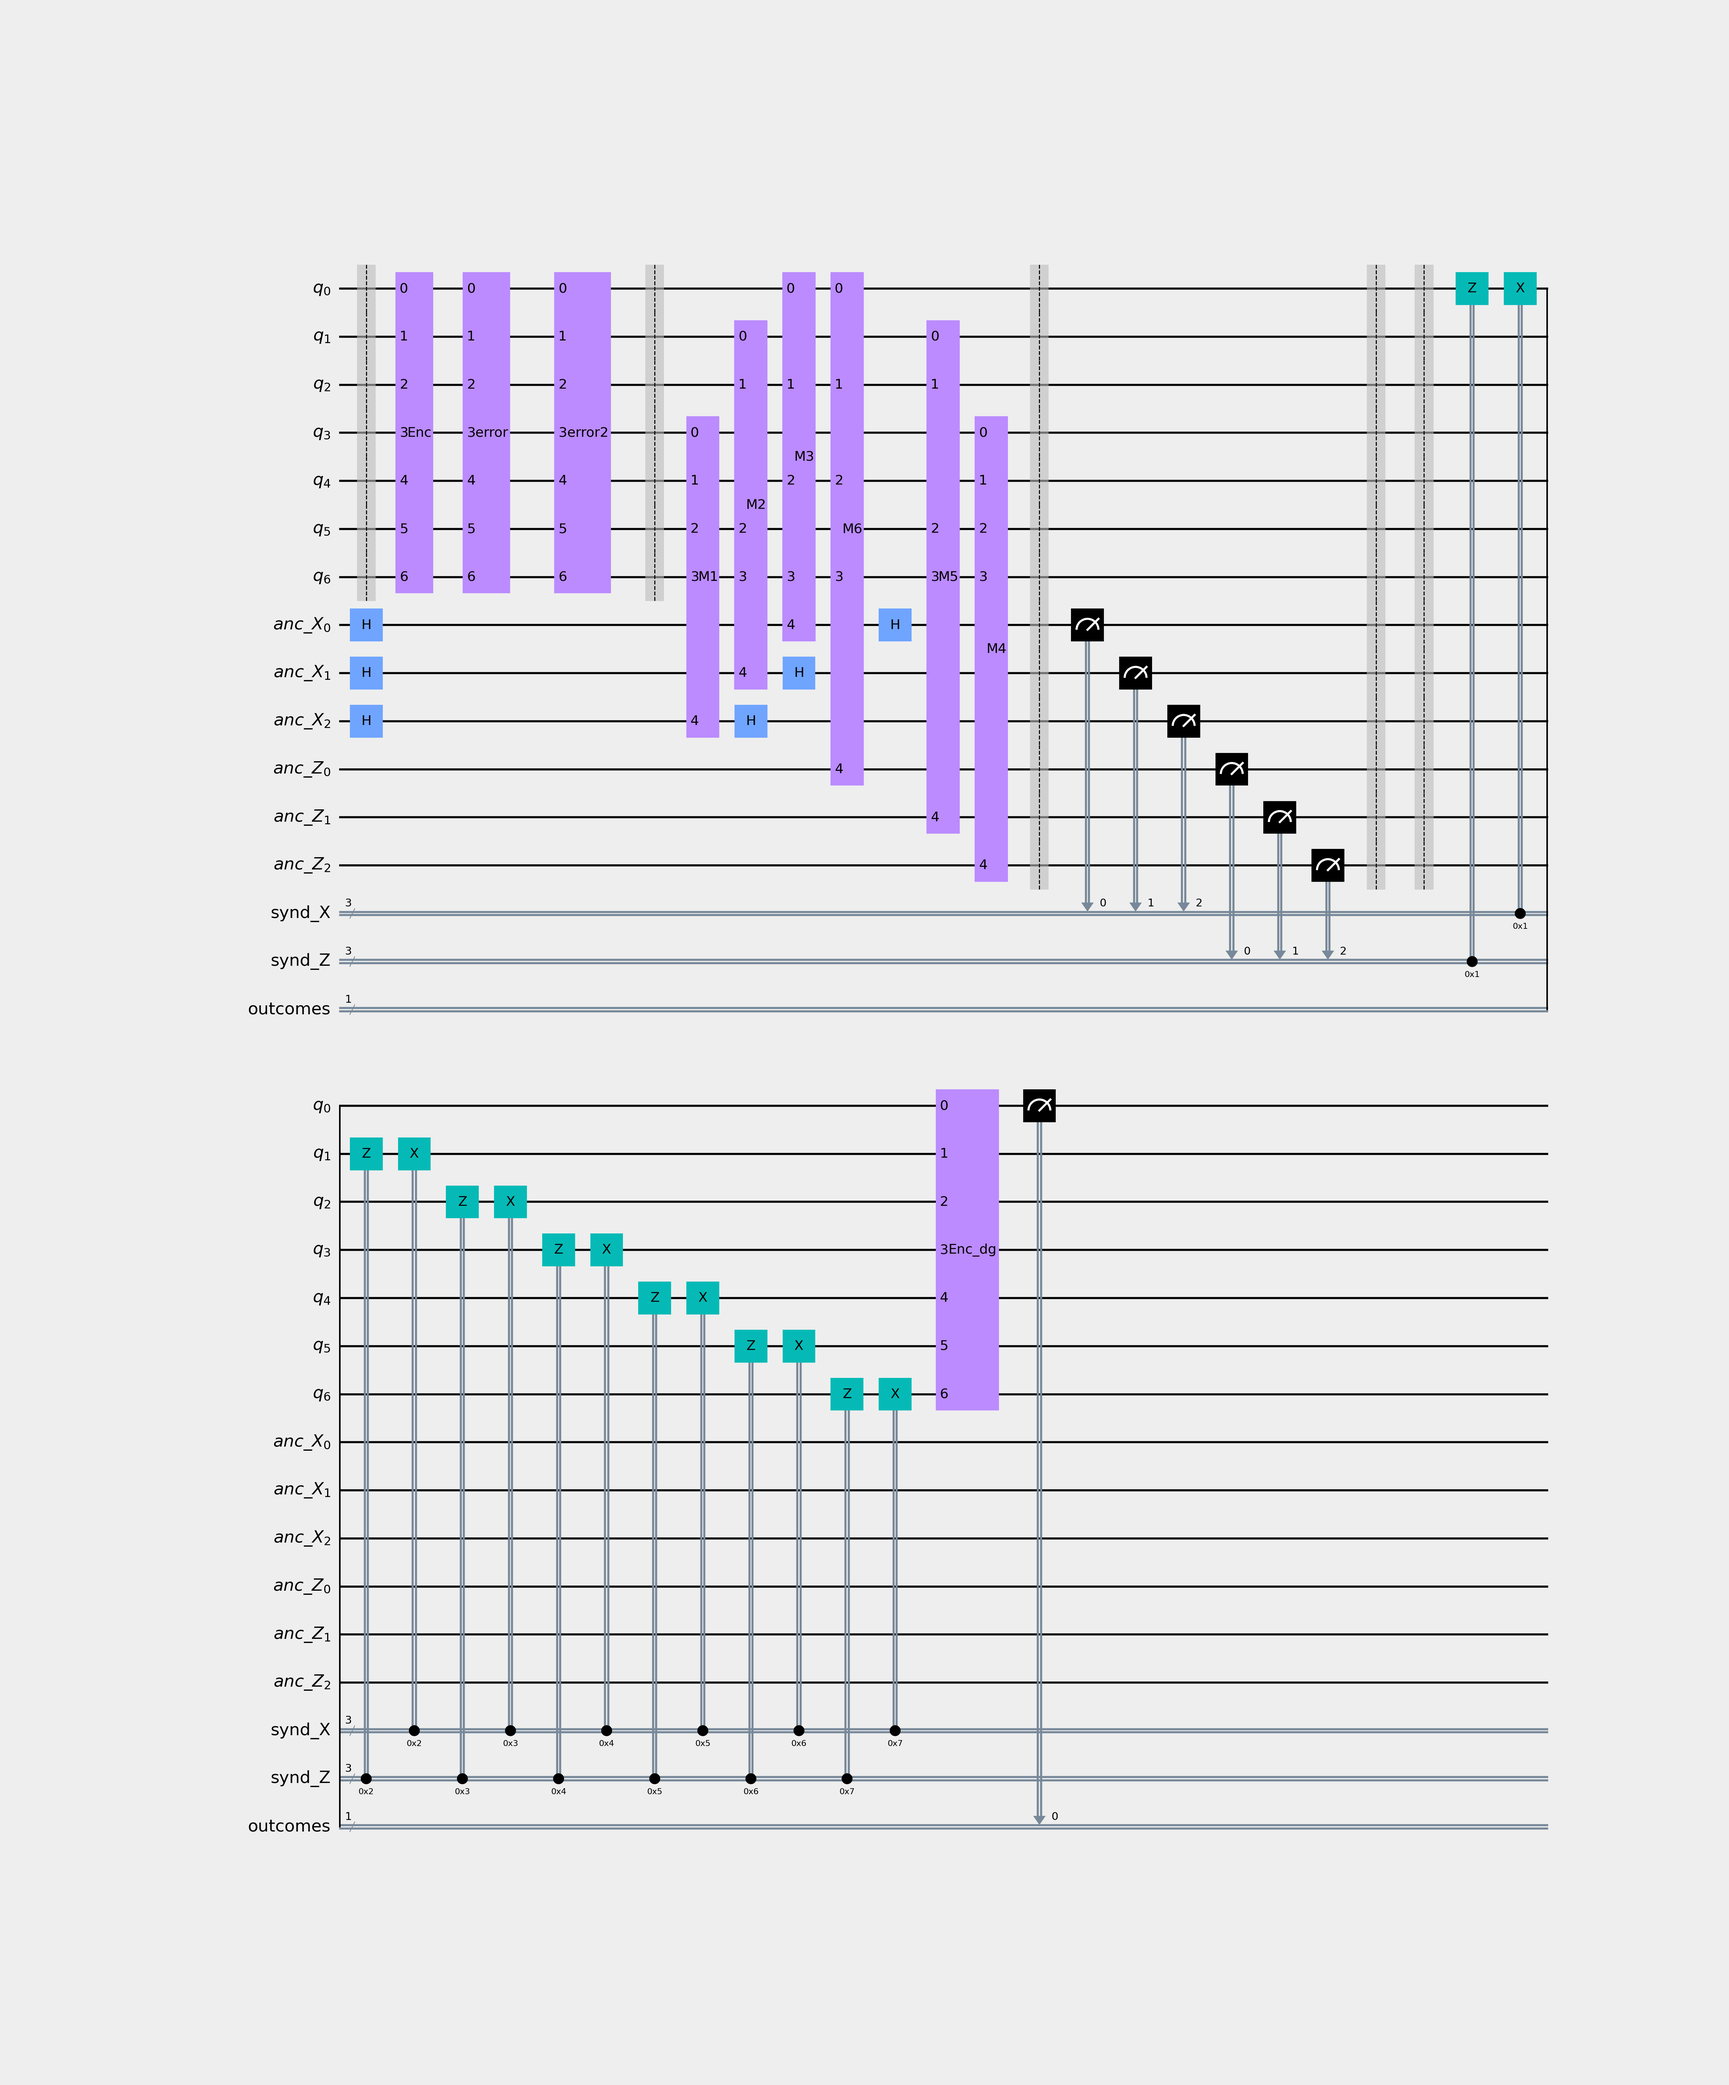
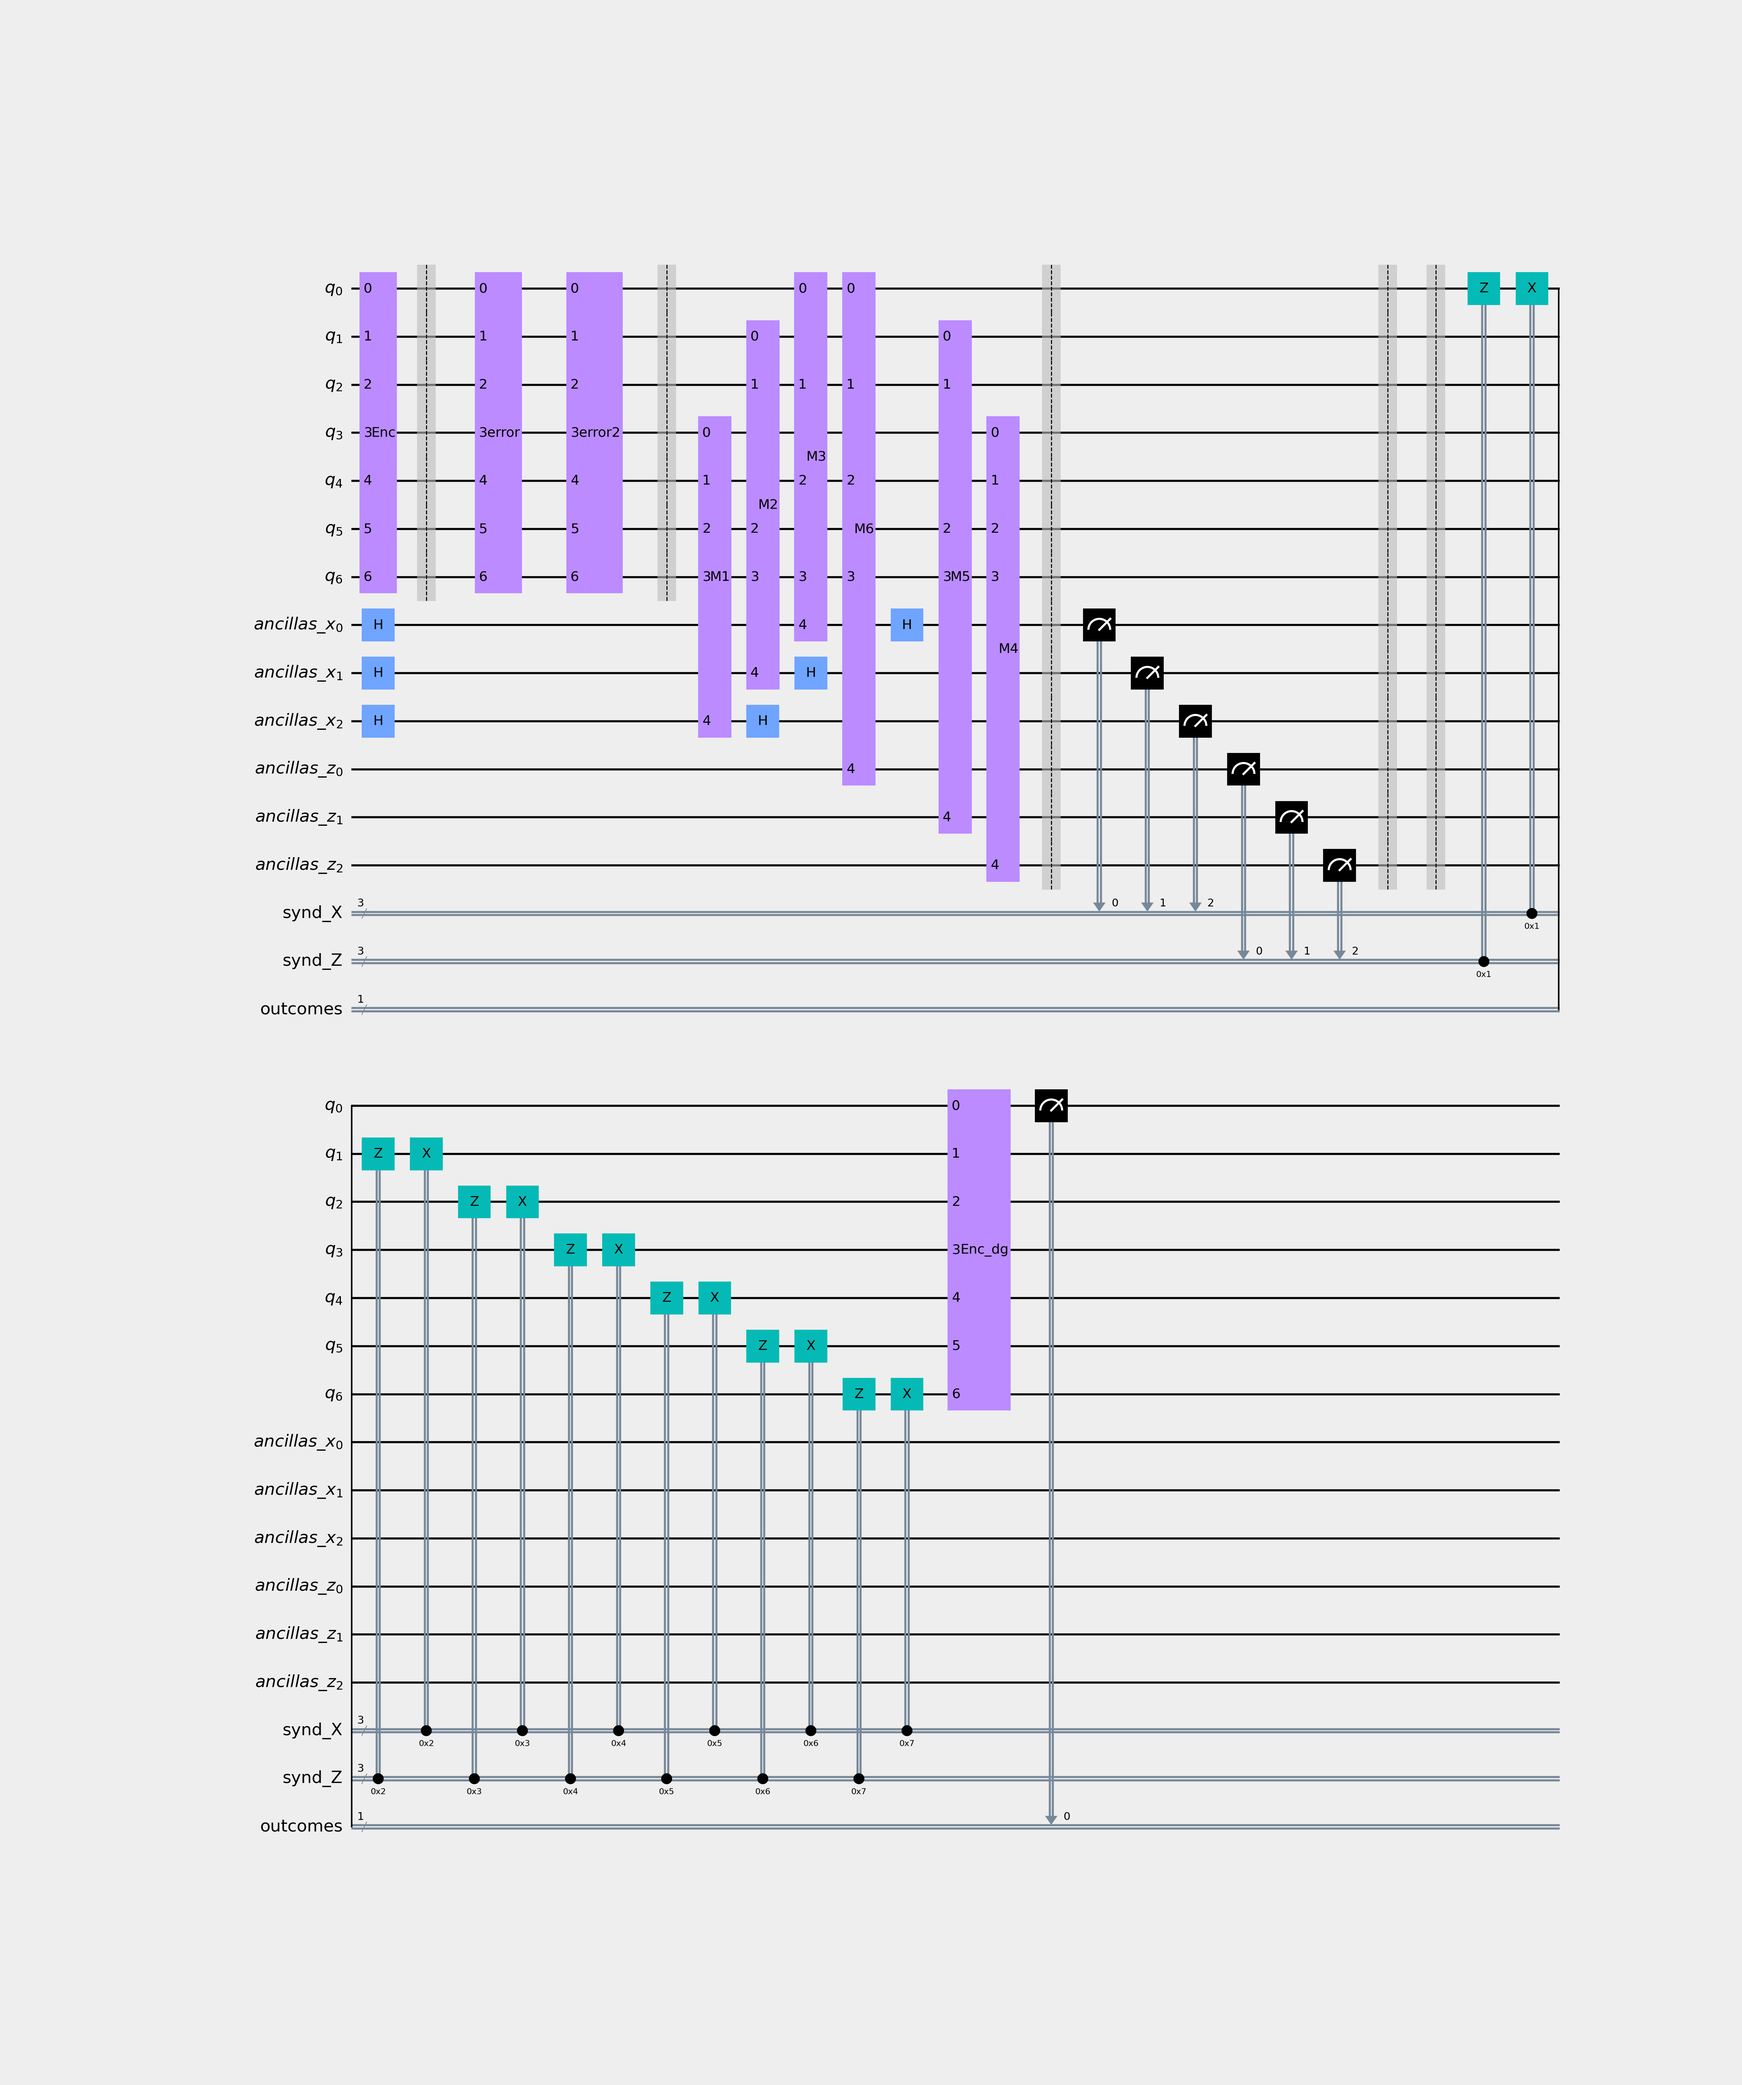
refactoring

Changed region(s): [[0.1555, 0.5296, 0.622, 0.8723], [0.1555, 0.1246, 0.7775, 0.4362], [0.1555, 0.405, 0.1866, 0.4673]]

diff --git a/Seven_qubit_code.py b/Seven_qubit_code.py
@@ -1,7 +1,3 @@
-""" notes:
-- remember to use barrier between gates to avoid optimization combining them to one gate
-"""
-
 from unicodedata import name
 from qiskit import *
 from qiskit import Aer, transpile
@@ -26,6 +22,7 @@ import qiskit.quantum_info as qi
 
 def main():
 
+    print(PRINT_MESSAGE)
 
     aer_sim = Aer.get_backend('aer_simulator')
     sv_sim = Aer.get_backend('statevector_simulator')
@@ -41,15 +38,13 @@ def main():
     ident3 = qi.Operator(np.identity(2 ** 7))
     quantum_error_1.unitary(ident3, all_qubits, label='error')
     quantum_error_2.unitary(ident3, all_qubits, label='error2')
-    #######
-    # Create the quantum circuit with the initial state
-    #######
-    quantum_circuit = QuantumCircuit(7)
-    initialize_qubit_to_state(quantum_circuit)
 
-    quantum_circuit.barrier()
+    quantum_circuit = QuantumCircuit(7)
+    initialize_first_qubit_to_state(quantum_circuit)
+
 
     quantum_circuit.append(Encoding7(), all_qubits)
+    quantum_circuit.barrier()
 
     ####
     # Attaching unitary identity gates (faulty gates)
@@ -58,93 +53,38 @@ def main():
     quantum_circuit.append(quantum_error_2, all_qubits)
     quantum_circuit.barrier()
 
-    ######
-    # Measurement just after the noise, to se the effect of the noise
-    # uncomment these lines
-    # #######
-
-    # counts = measurement7(quantum_circuit, 7, noise_model=get_noise(0.01))
-    # plot_histogram(counts)
-    # plt.show()
-
-    #######
-    # Ancilla register:
-    # AncX to correct X errors
-    # AncZ to correct Z errors
-    #######
-    ancX = QuantumRegister(3, 'anc_X')  ### Ancilla qubit
-    quantum_circuit.add_register(ancX)
-    ancZ = QuantumRegister(3, 'anc_Z')  ### Ancilla qubit
-    quantum_circuit.add_register(ancZ)
+    ancillas_x = QuantumRegister(3, 'ancillas_x')
+    quantum_circuit.add_register(ancillas_x)
+    ancillas_z = QuantumRegister(3, 'ancillas_z')
+    quantum_circuit.add_register(ancillas_z)
     for i in range(7, 10):
         quantum_circuit.h(i)
-    crX = ClassicalRegister(3, 'synd_X')  ### Classical register for syndrome extraction
-    crZ = ClassicalRegister(3, 'synd_Z')  ### Classical register for syndrome extraction
-    quantum_circuit.add_register(crX)
-    quantum_circuit.add_register(crZ)
+    classical_register_x = ClassicalRegister(3, 'synd_X')
+    classical_register_z = ClassicalRegister(3, 'synd_Z')
+    quantum_circuit.add_register(classical_register_x)
+    quantum_circuit.add_register(classical_register_z)
 
-    #####
-    # Create the stabilizer
-    #####
-    stab1Z = QuantumCircuit(5, name='M1')  # IIIZZZZ
-    for i in range(0, stab1Z.num_qubits - 1):
-        stab1Z.cx(i, 4)
-    stab2Z = QuantumCircuit(5, name='M2')  # IZZIIZZ
-    for i in range(0, stab2Z.num_qubits - 1):
-        stab2Z.cx(i, 4)
-    stab3Z = QuantumCircuit(5, name='M3')  # ZIZIZIZ
-    for i in range(0, stab3Z.num_qubits - 1):
-        stab3Z.cx(i, 4)
-    stab1X = QuantumCircuit(5, name='M4')  # IIIXXXX
-    for i in range(0, stab1X.num_qubits - 1):
-        stab1X.cx(4, i)
-    stab2X = QuantumCircuit(5, name='M5')  # IXXIIXX
-    for i in range(0, stab2X.num_qubits - 1):
-        stab2X.cx(4, i)
-    stab3X = QuantumCircuit(5, name='M6')  # XIXIXIX
-    for i in range(0, stab3X.num_qubits - 1):
-        stab3X.cx(4, i)
 
-    quantum_circuit.append(stab1Z, [3, 4, 5, 6, 9])
-    quantum_circuit.append(stab2Z, [1, 2, 5, 6, 8])
-    quantum_circuit.append(stab3Z, [0, 2, 4, 6, 7])  ##Stab Z goes in ancX and then crX
+    append_stabilizers(quantum_circuit)
 
-    quantum_circuit.append(stab3X, [0, 2, 4, 6, 10])
-    quantum_circuit.append(stab2X, [1, 2, 5, 6, 11])
-    quantum_circuit.append(stab1X, [3, 4, 5, 6, 12])  ##Stab X goes in ancZ and then crZ
-
-    #quantum_circuit.draw('mpl', scale=0.5)
-    # plt.show()
     for i in range(7, 10):
         quantum_circuit.h(i)
     quantum_circuit.barrier()
-    # Measure the ancilla results
-    quantum_circuit.measure(ancX[0], crX[0])
-    quantum_circuit.measure(ancX[1], crX[1])
-    quantum_circuit.measure(ancX[2], crX[2])
 
-    quantum_circuit.measure(ancZ[0], crZ[0])
-    quantum_circuit.measure(ancZ[1], crZ[1])
-    quantum_circuit.measure(ancZ[2], crZ[2])
+    quantum_circuit.measure(ancillas_x[0], classical_register_x[0])
+    quantum_circuit.measure(ancillas_x[1], classical_register_x[1])
+    quantum_circuit.measure(ancillas_x[2], classical_register_x[2])
+
+    quantum_circuit.measure(ancillas_z[0], classical_register_z[0])
+    quantum_circuit.measure(ancillas_z[1], classical_register_z[1])
+    quantum_circuit.measure(ancillas_z[2], classical_register_z[2])
     quantum_circuit.barrier()
 
-    #### Uncomment these lines to see the ancilla values
-    # quantum_circuit.draw('mpl', scale=0.5)
-    # plt.show()
-    # counts=execute(quantum_circuit, aer_sim, shots=10000).result().get_counts()
-    # plot_histogram(counts)
-    # plt.show()
-    # counts=execute(quantum_circuit, aer_sim, noise_model= noise_model, shots=10000).result().get_counts()
-    # plot_histogram(counts)
-    # plt.show()
-
-    # ###
-    # #Recovery
-    # ###
+    # Correction
     quantum_circuit.barrier()
     for i in range(0, 7):
-        quantum_circuit.z(i).c_if(crZ, i + 1)
-        quantum_circuit.x(i).c_if(crX, i + 1)
+        quantum_circuit.z(i).c_if(classical_register_z, i + 1)
+        quantum_circuit.x(i).c_if(classical_register_x, i + 1)
     # quantum_circuit.draw('mpl')
     # plt.show()
     # counts=execute(quantum_circuit, aer_sim, noise_model= get_noise(0.1), shots=10000).result().get_counts()
@@ -176,10 +116,37 @@ def main():
     fig.savefig('measurements.png')  # Or whatever you doing to output the image
     # plot_histogram(counts,number_to_keep=10, sort='value_desc')
     print(counts)
-    plt.show()
+    # plt.show()
 
 
-def initialize_qubit_to_state(qc_3qx):
+def append_stabilizers(quantum_circuit):
+    stab1Z = QuantumCircuit(5, name='M1')  # IIIZZZZ
+    for i in range(0, stab1Z.num_qubits - 1):
+        stab1Z.cx(i, 4)
+    stab2Z = QuantumCircuit(5, name='M2')  # IZZIIZZ
+    for i in range(0, stab2Z.num_qubits - 1):
+        stab2Z.cx(i, 4)
+    stab3Z = QuantumCircuit(5, name='M3')  # ZIZIZIZ
+    for i in range(0, stab3Z.num_qubits - 1):
+        stab3Z.cx(i, 4)
+    stab1X = QuantumCircuit(5, name='M4')  # IIIXXXX
+    for i in range(0, stab1X.num_qubits - 1):
+        stab1X.cx(4, i)
+    stab2X = QuantumCircuit(5, name='M5')  # IXXIIXX
+    for i in range(0, stab2X.num_qubits - 1):
+        stab2X.cx(4, i)
+    stab3X = QuantumCircuit(5, name='M6')  # XIXIXIX
+    for i in range(0, stab3X.num_qubits - 1):
+        stab3X.cx(4, i)
+    quantum_circuit.append(stab1Z, [3, 4, 5, 6, 9])
+    quantum_circuit.append(stab2Z, [1, 2, 5, 6, 8])
+    quantum_circuit.append(stab3Z, [0, 2, 4, 6, 7])  ##Stab Z goes in ancillas_x and then classical_register_x
+    quantum_circuit.append(stab3X, [0, 2, 4, 6, 10])
+    quantum_circuit.append(stab2X, [1, 2, 5, 6, 11])
+    quantum_circuit.append(stab1X, [3, 4, 5, 6, 12])  ##Stab X goes in ancillas_z and then classical_register_z
+
+
+def initialize_first_qubit_to_state(qc_3qx):
     initial_state = [1 / np.sqrt(2), 1 / np.sqrt(2)]
     # initial_state = [0,1]
     # qc_3qx.initialize(initial_state, 0)
@@ -248,9 +215,21 @@ def get_noise(p_error):
     # ######
     noise_model = NoiseModel(['unitary'])
     noise_model.add_all_qubit_quantum_error(bit_flip6, 'error')
-    # noise_model.add_all_qubit_quantum_error(phase_flip6, 'error2')
+    noise_model.add_all_qubit_quantum_error(phase_flip6, 'error2')
     return noise_model
 
+PRINT_MESSAGE = """ notes:
+       _               _          _ _  __  __    __             _                                 _ _ _ 
+      | |             | |        | (_)/ _|/ _|  / _|           (_)                               | | | |
+   ___| |__   ___  ___| | __   __| |_| |_| |_  | |_ ___  _ __   _ _ __ ___   __ _  __ _  ___  ___| | | |
+  / __| '_ \ / _ \/ __| |/ /  / _` | |  _|  _| |  _/ _ \| '__| | | '_ ` _ \ / _` |/ _` |/ _ \/ __| | | |
+ | (__| | | |  __/ (__|   <  | (_| | | | | |   | || (_) | |    | | | | | | | (_| | (_| |  __/\__ \_|_|_|
+  \___|_| |_|\___|\___|_|\_\  \__,_|_|_| |_|   |_| \___/|_|    |_|_| |_| |_|\__,_|\__, |\___||___(_|_|_)
+                                                                                   __/ |                
+                                                                                  |___/                 
+- remember to use barrier between gates to avoid optimization combining them to one gate
+
+"""
 
 if __name__ == "__main__":
     main()
